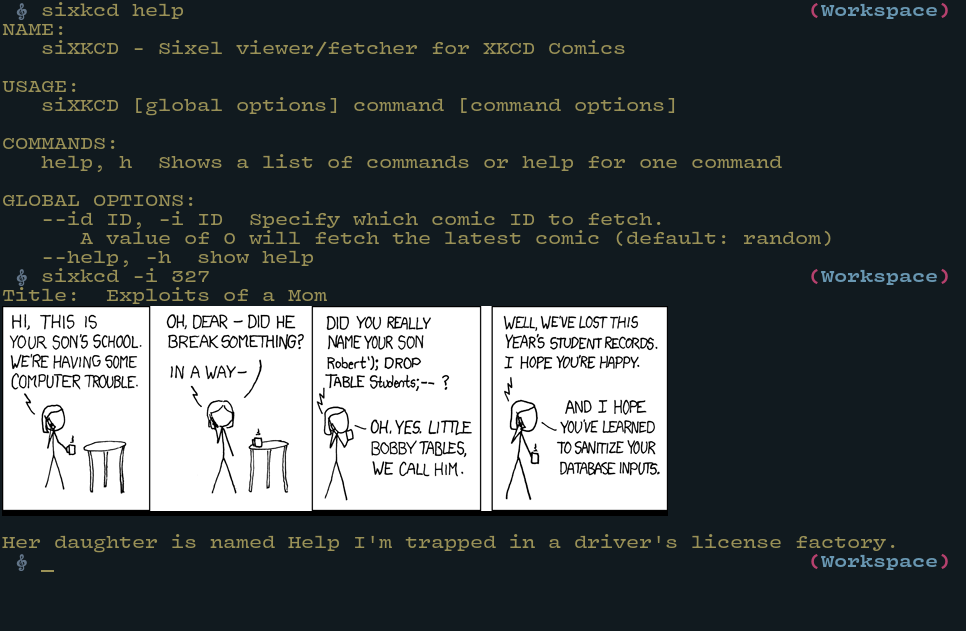
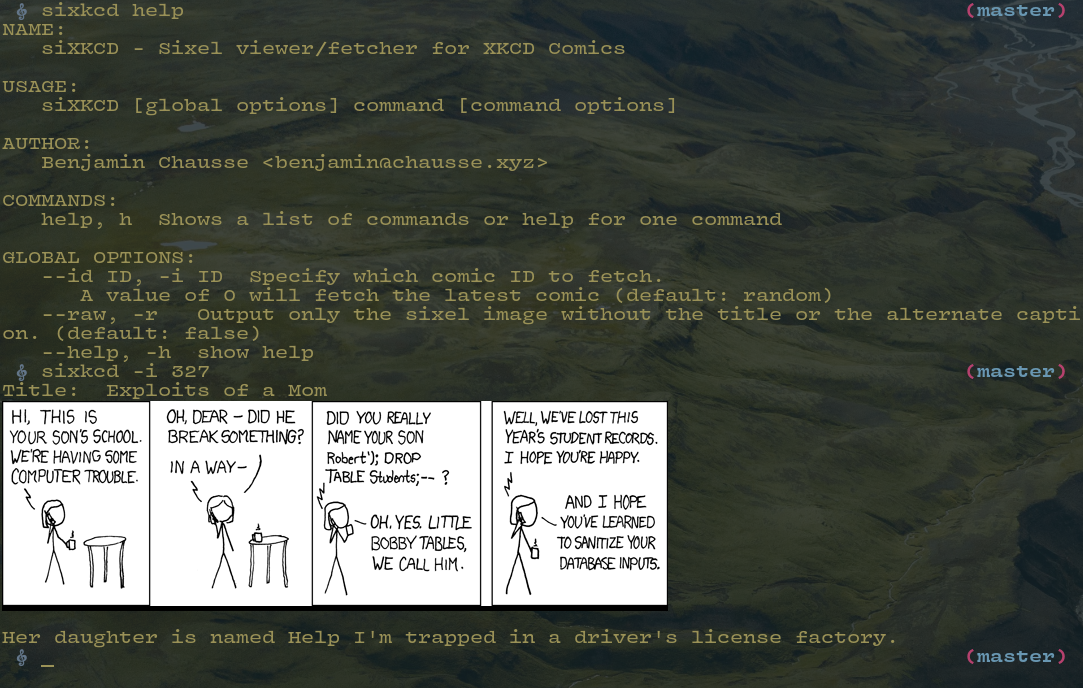
Build with makefile + raw mode

diff --git a/sixkcd.go b/sixkcd.go
@@ -22,7 +22,7 @@ const (
   target = "info.0.json"
 )
 
-type Xkcd struct {
+type Comic struct {
   Month string
   Num int
   Link string
@@ -40,11 +40,22 @@ func main() {
   app := &cli.App{
     Name: "siXKCD",
     Usage: "Sixel viewer/fetcher for XKCD Comics",
+    Authors: []*cli.Author{
+      {
+        Name: "Benjamin Chausse",
+        Email: "benjamin@chausse.xyz",
+      },
+    },
     Flags: []cli.Flag{
       &cli.StringFlag{
         Name: "id",
         Aliases: []string{"i"},
         Usage: "Specify which comic `ID` to fetch.\nA value of 0 will fetch the latest comic (default: random)",
+      },
+      &cli.BoolFlag{
+        Name: "raw",
+        Aliases: []string{"r"},
+        Usage: "Output only the sixel image without the title or the alternate caption.",
       },
     },
     Action: func(ctx *cli.Context) error {
@@ -62,11 +73,17 @@ func main() {
       }
       var img image.Image = fetchImg(comic.Img)
 
-      fmt.Println("Title: ", comic.Title)
       encoder := sixel.NewEncoder(os.Stdout)
-      _ = encoder.Encode(img)
-      if comic.Alt != "" {
-        fmt.Println(comic.Alt)
+
+      switch ctx.Bool("raw") {
+      case true:
+        _ = encoder.Encode(img)
+      default:
+        fmt.Println("Title: ", comic.Title)
+        _ = encoder.Encode(img)
+        if comic.Alt != "" {
+          fmt.Println(comic.Alt)
+        }
       }
 
 
@@ -79,7 +96,7 @@ func main() {
   }
 }
 
-func fetchComic(id string) Xkcd {
+func fetchComic(id string) Comic {
   var res *http.Response
 
   var err error
@@ -89,23 +106,23 @@ func fetchComic(id string) Xkcd {
   } else {
     res, err = http.Get(hostname+"/"+id+"/"+target)
   }
+  defer res.Body.Close()
 
   if err != nil {
     log.Fatal(err)
   }
 
   content, err := io.ReadAll(res.Body)
-  res.Body.Close()
   if err != nil {
     log.Fatal(err)
   }
-  today := Xkcd{}
-  err = json.Unmarshal(content, &today)
+  comic := Comic{}
+  err = json.Unmarshal(content, &comic)
   if err != nil {
     log.Fatal(err)
   }
 
-  return today
+  return comic
 }
 
 func fetchImg(url string) image.Image {
